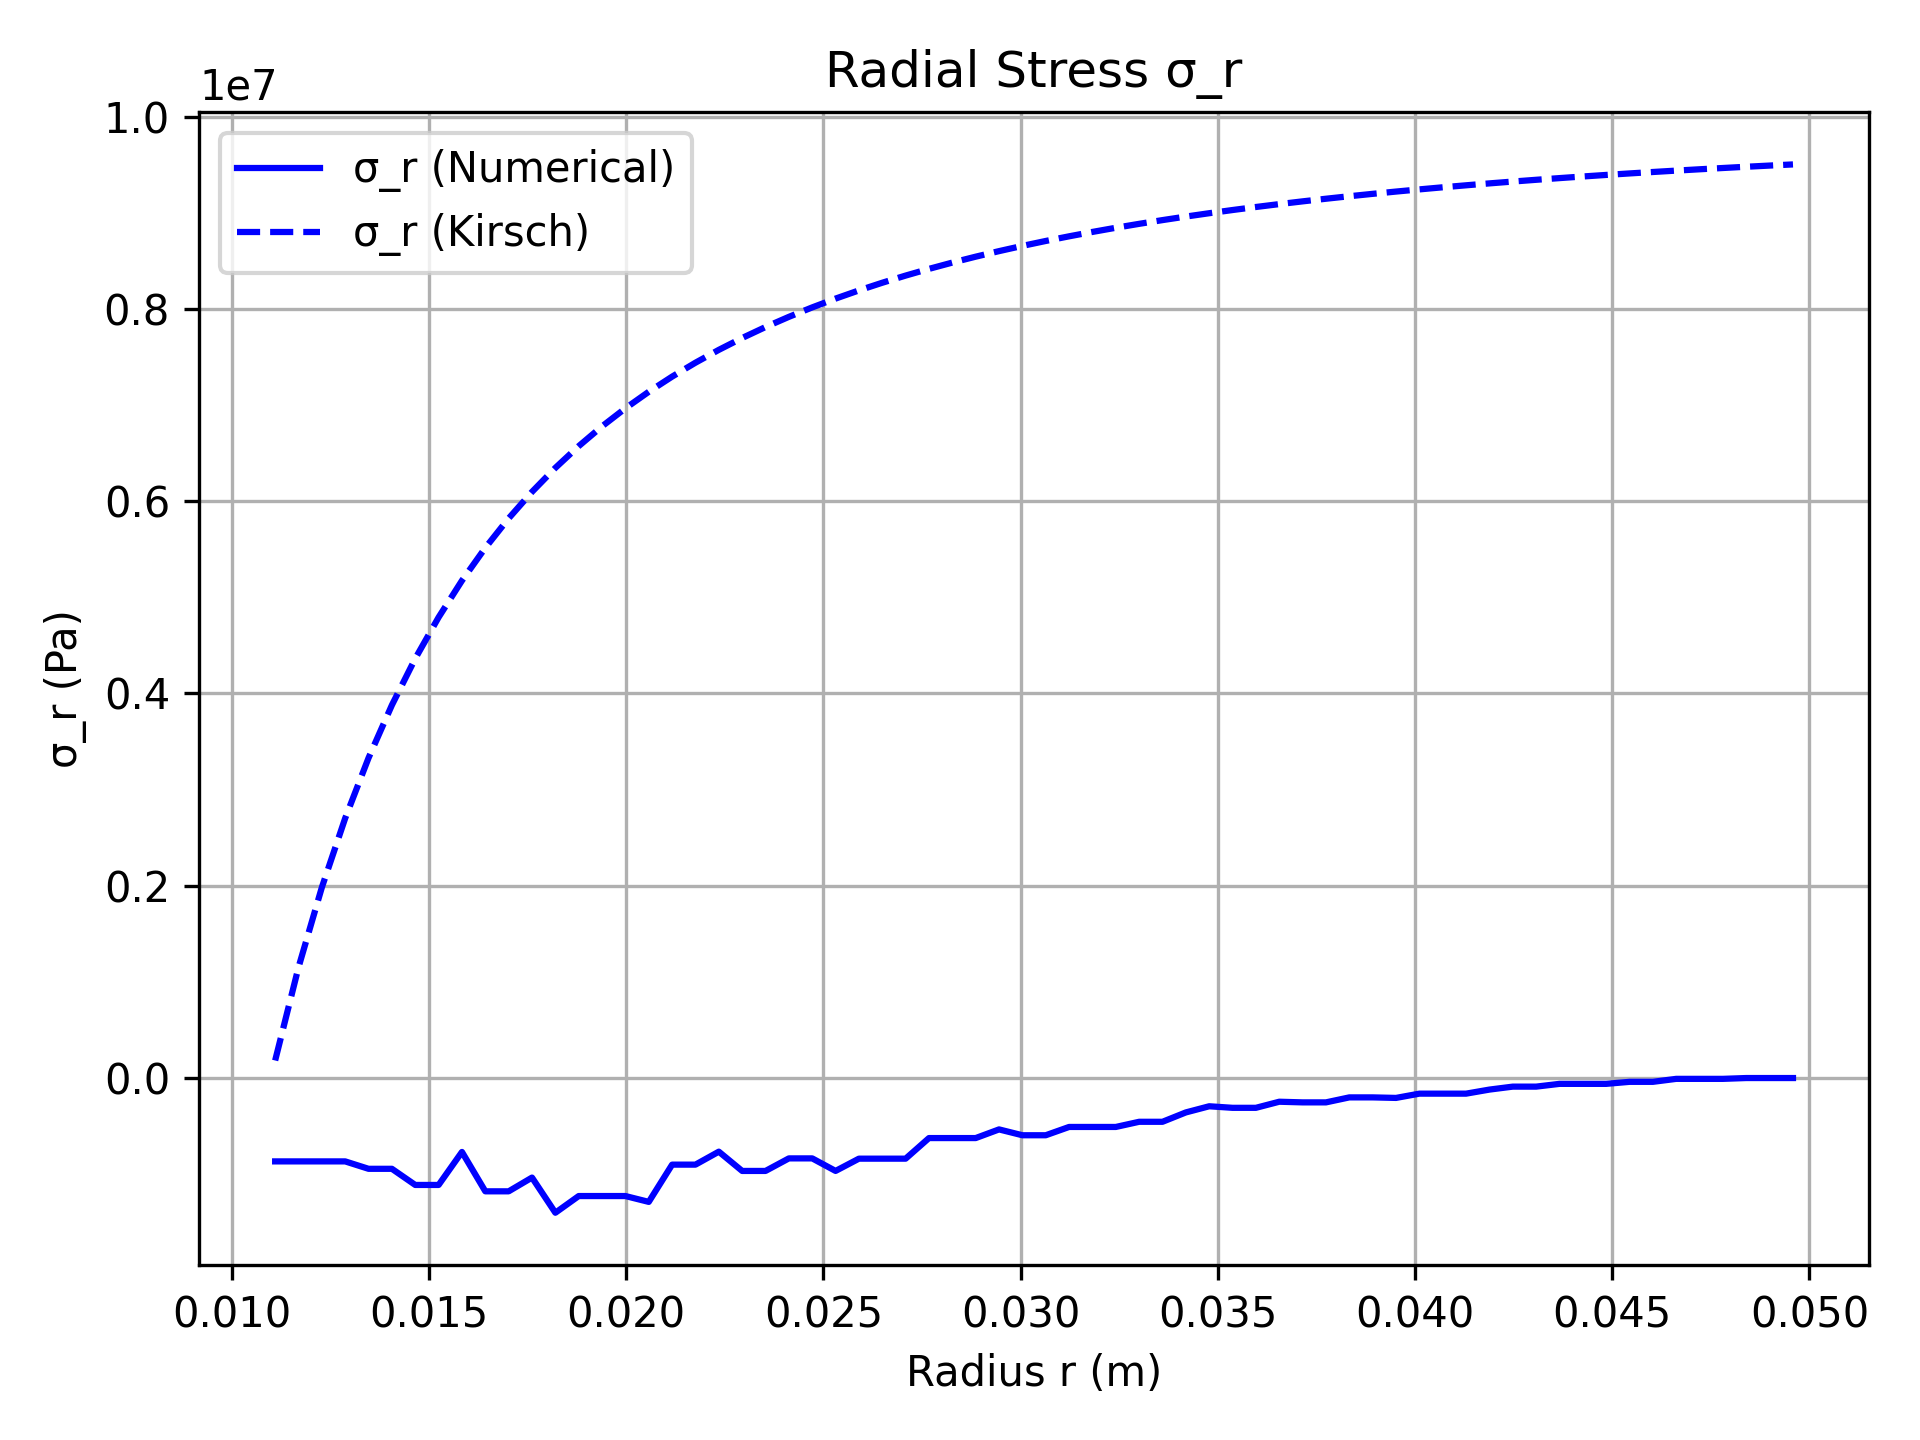
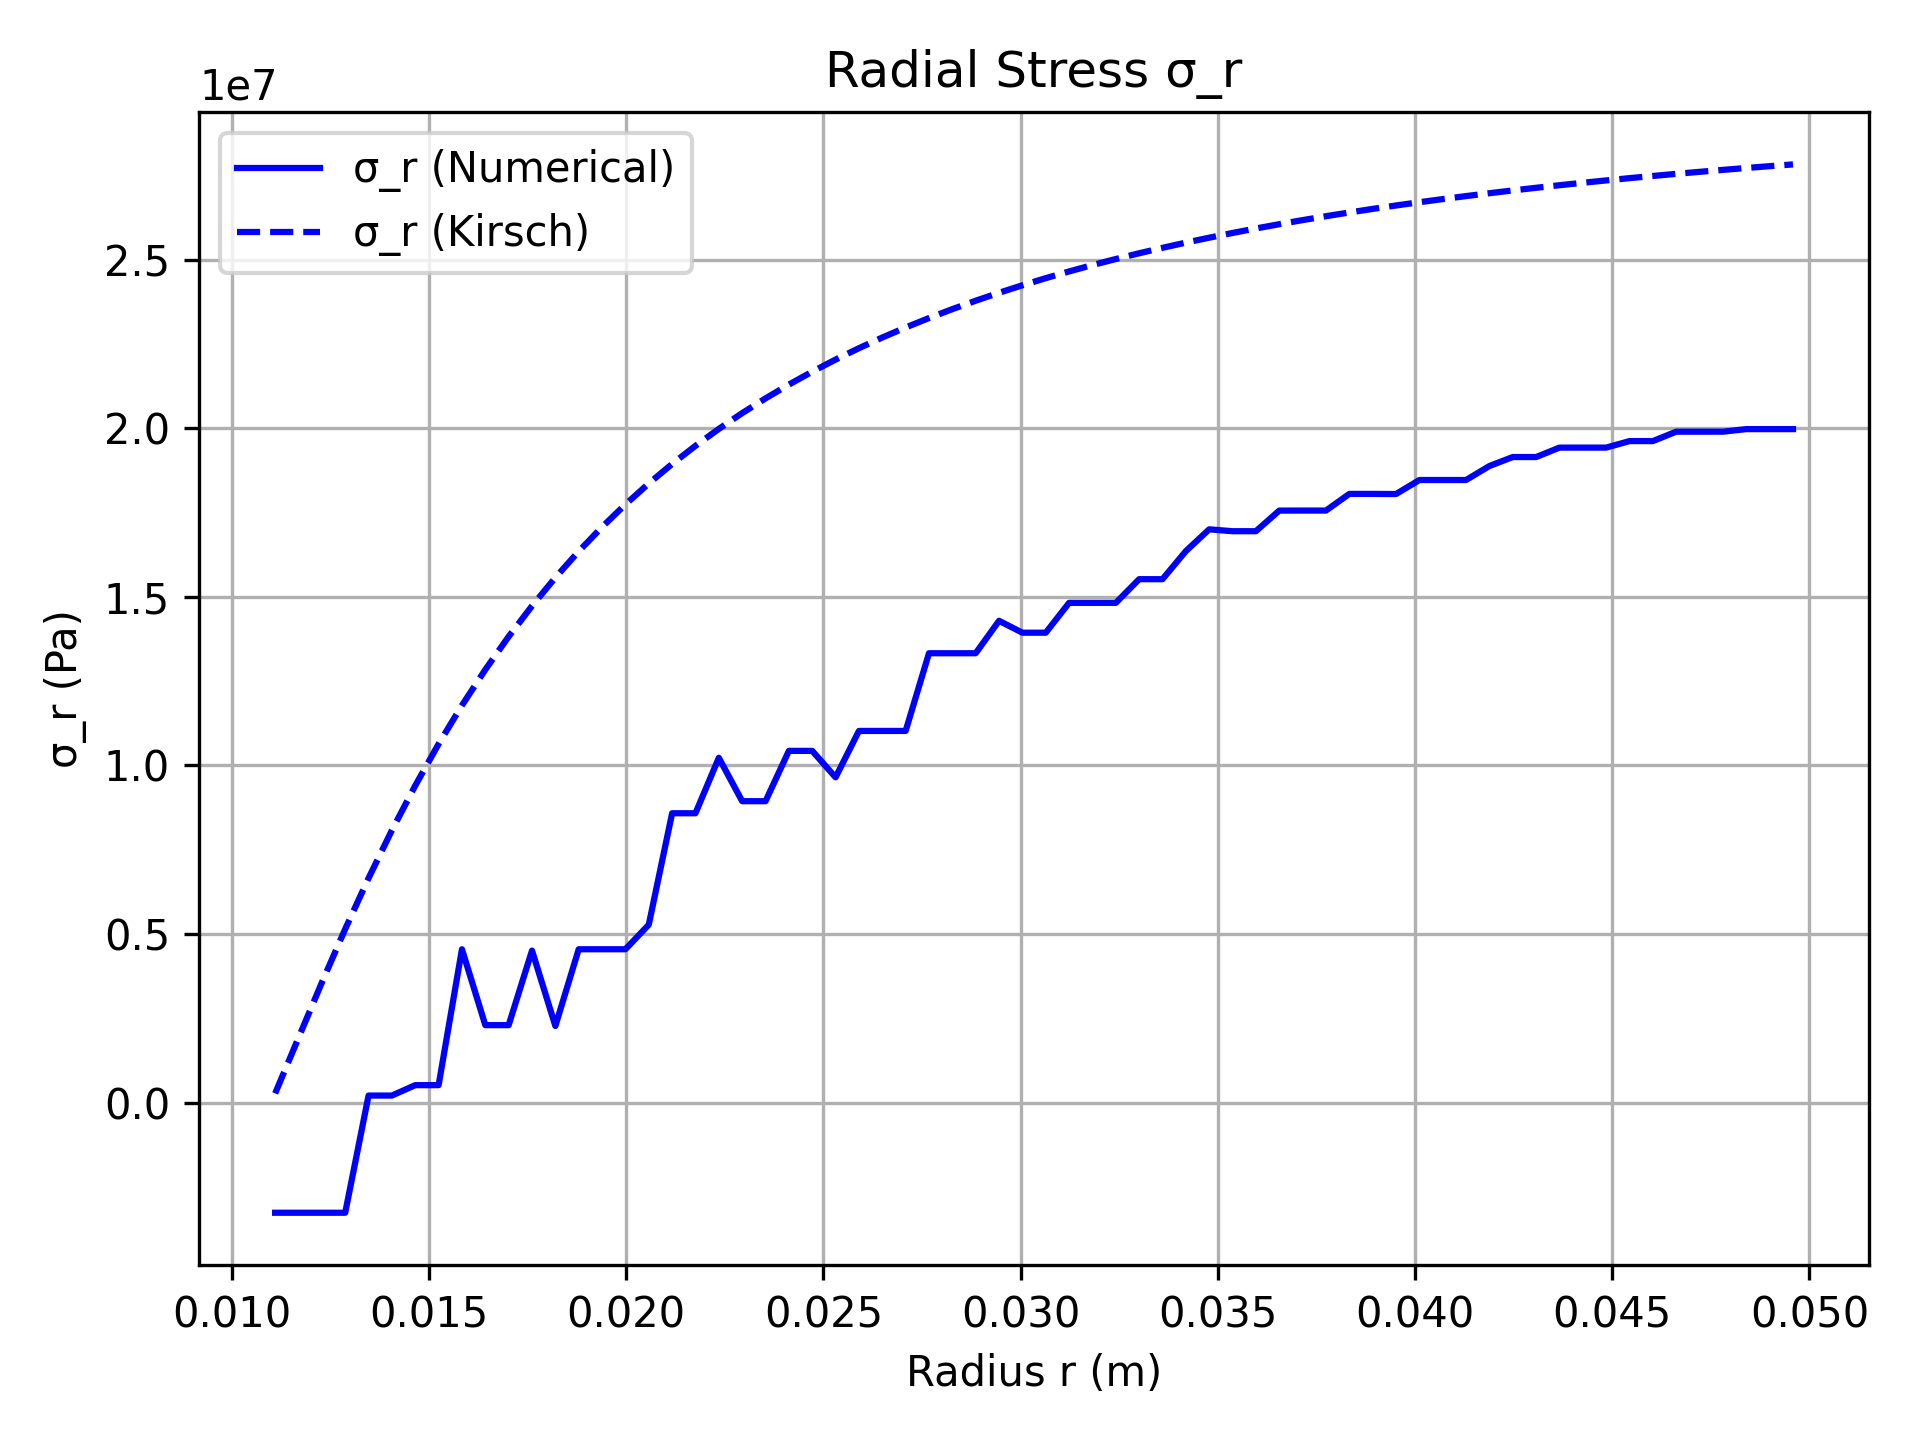
update kirsch validation with a new calculation method.

diff --git a/irp2025_breakouts_webapp/playground/validate_kirsch_stress.py b/irp2025_breakouts_webapp/playground/validate_kirsch_stress.py
@@ -5,14 +5,14 @@ import os
 import pandas as pd
 
 class KirschStressValidator:
-    def __init__(self, mesh_path, sigma_H, E, nu, borehole_radius):
+    def __init__(self, mesh_path, sigma_H, sigma_h, E, nu, a):
         self.mesh_path = mesh_path
         self.sigma_H = sigma_H
+        self.sigma_h = sigma_h
         self.E = E
         self.nu = nu
-        self.a = borehole_radius
+        self.a = a
 
-        # Firedrake setup
         self.mesh = Mesh(mesh_path)
         self.V = VectorFunctionSpace(self.mesh, "CG", 2)
         self.S = TensorFunctionSpace(self.mesh, "DG", 0)
@@ -32,8 +32,11 @@ class KirschStressValidator:
         u = Function(self.V, name="Displacement")
         v = TestFunction(self.V)
 
-        T = as_vector([0.0, self.sigma_H])  # apply on top
-        F = inner(self._sigma(u), self._epsilon(v)) * dx - dot(T, v) * ds(14)
+        # Apply σ_H 向上 (top), σ_h 向右 (right)
+        F = inner(self._sigma(u), self._epsilon(v)) * dx \
+            - dot(as_vector([self.sigma_h, 0]), v) * ds(12) \
+            - dot(as_vector([0, self.sigma_H]), v) * ds(14)
+
         bcs = [
             DirichletBC(self.V.sub(0), Constant(0.0), 11),
             DirichletBC(self.V.sub(1), Constant(0.0), 13),
@@ -43,6 +46,20 @@ class KirschStressValidator:
         self.sigma_tensor = Function(self.S, name="Stress")
         self.sigma_tensor.interpolate(self._sigma(u))
 
+    def _kirsch_sigma_r(self, r, θ=0):
+        a = self.a
+        σ1 = self.sigma_H
+        σ2 = self.sigma_h
+        return (σ1 + σ2)/2 * (1 - (a/r)**2) + \
+               (σ1 - σ2)/2 * (1 - 4*(a/r)**2 + 3*(a/r)**4) * np.cos(2*θ)
+
+    def _kirsch_sigma_theta(self, r, θ=0):
+        a = self.a
+        σ1 = self.sigma_H
+        σ2 = self.sigma_h
+        return (σ1 + σ2)/2 * (1 + (a/r)**2) - \
+               (σ1 - σ2)/2 * (1 + 3*(a/r)**4) * np.cos(2*θ)
+
     def _extract_stress_profile(self):
         coords = self.mesh.coordinates.dat.data_ro
         r_max = np.max(np.sqrt(coords[:, 0]**2 + coords[:, 1]**2))
@@ -50,7 +67,6 @@ class KirschStressValidator:
 
         er = np.array([1.0, 0.0])
         et = np.array([0.0, 1.0])
-
         self.results = []
 
         for r in r_vals_all:
@@ -61,8 +77,8 @@ class KirschStressValidator:
                 continue
             σ_r_num = er @ σ @ er
             σ_θ_num = et @ σ @ et
-            σ_r_kirsch = self.sigma_H * (1 - (self.a / r)**2)
-            σ_θ_kirsch = self.sigma_H * (1 + (self.a / r)**2)
+            σ_r_kirsch = self._kirsch_sigma_r(r, θ=0)
+            σ_θ_kirsch = self._kirsch_sigma_theta(r, θ=0)
             self.results.append({
                 "r": r,
                 "sigma_r_numerical": σ_r_num,
@@ -73,37 +89,27 @@ class KirschStressValidator:
 
     def plot(self, outdir="outputs/kirsch_validation"):
         os.makedirs(outdir, exist_ok=True)
-        r = [d["r"] for d in self.results]
-        σr_num = [d["sigma_r_numerical"] for d in self.results]
-        σr_exact = [d["sigma_r_analytical"] for d in self.results]
-        σθ_num = [d["sigma_theta_numerical"] for d in self.results]
-        σθ_exact = [d["sigma_theta_analytical"] for d in self.results]
+        df = pd.DataFrame(self.results)
 
-        # σ_r
         plt.figure()
-        plt.plot(r, σr_num, "b-", label="σ_r (Numerical)")
-        plt.plot(r, σr_exact, "b--", label="σ_r (Kirsch)")
+        plt.plot(df.r, df.sigma_r_numerical, "b-", label="σ_r (Numerical)")
+        plt.plot(df.r, df.sigma_r_analytical, "b--", label="σ_r (Kirsch)")
         plt.xlabel("Radius r (m)")
         plt.ylabel("σ_r (Pa)")
         plt.title("Radial Stress σ_r")
-        plt.grid(True)
-        plt.legend()
+        plt.legend(); plt.grid(True)
         plt.tight_layout()
         plt.savefig(os.path.join(outdir, "sigma_r_validation.png"), dpi=300)
-        plt.close()
 
-        # σ_θ
         plt.figure()
-        plt.plot(r, σθ_num, "r-", label="σ_θ (Numerical)")
-        plt.plot(r, σθ_exact, "r--", label="σ_θ (Kirsch)")
+        plt.plot(df.r, df.sigma_theta_numerical, "r-", label="σ_θ (Numerical)")
+        plt.plot(df.r, df.sigma_theta_analytical, "r--", label="σ_θ (Kirsch)")
         plt.xlabel("Radius r (m)")
         plt.ylabel("σ_θ (Pa)")
         plt.title("Circumferential Stress σ_θ")
-        plt.grid(True)
-        plt.legend()
+        plt.legend(); plt.grid(True)
         plt.tight_layout()
         plt.savefig(os.path.join(outdir, "sigma_theta_validation.png"), dpi=300)
-        plt.close()
 
     def export(self, path="outputs/kirsch_validation/kirsch_data.csv"):
         os.makedirs(os.path.dirname(path), exist_ok=True)
@@ -112,21 +118,13 @@ class KirschStressValidator:
 
 
 if __name__ == "__main__":
-    # validator = KirschStressValidator(
-    #     mesh_path="meshes/domain.msh",
-    #     sigma_H=10e6,
-    #     E=4.9e9,
-    #     nu=0.44,
-    #     borehole_radius=0.011
-    # )
-
     validator = KirschStressValidator(
-        mesh_path="meshes/domain1.msh",   
-        sigma_H=10e6,
+        mesh_path="meshes/domain1.msh",
+        sigma_H=30e6,     # vertical
+        sigma_h=20e6,     # horizontal
         E=6.66e9,
         nu=0.22,
-        borehole_radius=0.011             
+        a=0.011           # 22 mm borehole
     )
-
     validator.plot()
     validator.export()

diff --git a/irp2025_breakouts_webapp/playground/mode_I_case.py b/irp2025_breakouts_webapp/playground/mode_I_case.py
@@ -128,58 +128,58 @@ class OutwardPenalization(DeformationObjective):
         return fd.derivative(self.value_form(), self.Q.T, test)
 
 
-# if __name__ == "__main__":
+if __name__ == "__main__":
 
-#     domainpath = "meshes/domain.msh"
+    domainpath = "meshes/domain.msh"
 
-#     params_dict = {'Step': {'Type': 'Trust Region'},
-#                    'General': {'Secant': {'Type': 'Limited-Memory BFGS',
-#                                           'Maximum Storage': 25}},
-#                    'Status Test': {'Gradient Tolerance': 1e-2,
-#                                    'Step Tolerance': 1e-8,
-#                                    'Iteration Limit': 40}}
+    params_dict = {'Step': {'Type': 'Trust Region'},
+                   'General': {'Secant': {'Type': 'Limited-Memory BFGS',
+                                          'Maximum Storage': 25}},
+                   'Status Test': {'Gradient Tolerance': 1e-2,
+                                   'Step Tolerance': 1e-8,
+                                   'Iteration Limit': 40}}
 
-#     model_parameters = {
-#         "youngs_modulus": 1e9,
-#         "poisson_ratio": 0.3,
-#         "tensile_strength": 1.5e6,
-#         "internal_friction_angle": 20,
-#         "internal_cohesion": 40.55e6,
-#         "insitu_stress_x": 1e6,
-#         "insitu_stress_y": 7.7e6}
+    model_parameters = {
+        "youngs_modulus": 1e9,
+        "poisson_ratio": 0.3,
+        "tensile_strength": 1.5e6,
+        "internal_friction_angle": 20,
+        "internal_cohesion": 40.55e6,
+        "insitu_stress_x": 1e6,
+        "insitu_stress_y": 7.7e6}
 
-#     # model_parameters = {
-#     #     "youngs_modulus": 4.9e9,              # 4.9 GPa（confining = 2 MPa 对应的 E）
-#     #     "poisson_ratio": 0.44,                # ν = 0.44（同一行）
-#     #     "tensile_strength": 0.9e6,            # 1.0 MPa，估计值，弱砂岩典型
-#     #     "internal_friction_angle": 38.9,      # φ，论文给出
-#     #     "internal_cohesion": 4.54e6,          # c，论文给出
-#     #     "insitu_stress_x": 27e6,               # 初始设为 0，后续加载
-#     #     "insitu_stress_y": 27e6
-#     # }
+    # model_parameters = {
+    #     "youngs_modulus": 4.9e9,              # 4.9 GPa（confining = 2 MPa 对应的 E）
+    #     "poisson_ratio": 0.44,                # ν = 0.44（同一行）
+    #     "tensile_strength": 0.9e6,            # 1.0 MPa，估计值，弱砂岩典型
+    #     "internal_friction_angle": 38.9,      # φ，论文给出
+    #     "internal_cohesion": 4.54e6,          # c，论文给出
+    #     "insitu_stress_x": 27e6,               # 初始设为 0，后续加载
+    #     "insitu_stress_y": 27e6
+    # }
 
-#     # setup problem
-#     mesh = Mesh(domainpath)
-#     mesh_initial = Mesh(domainpath)
-#     Q = FeControlSpace(mesh)
+    # setup problem
+    mesh = Mesh(domainpath)
+    mesh_initial = Mesh(domainpath)
+    Q = FeControlSpace(mesh)
 
-#     File = VTKFile("tensile_limit.pvd")
+    File = VTKFile("tensile_limit.pvd")
     
-#     for rampf in np.linspace(0.1, 1, num=30, endpoint=True):
-#         mesh = Mesh(Q.T)
-#          # 1. 重建 mesh
-#         Q = FeControlSpace(mesh)
-#         # 2. 定义内积和控制向量
-#         IP = H1InnerProduct(Q, fixed_bids=[11, 12, 13, 14])
-#         q = ControlVector(Q, IP)
-#         # 3. 定义目标函数
-#         J = StrengthConstraint(Q, model_parameters=model_parameters, ramping_factor=rampf) + OutwardPenalization(Q)
-#         # assemble and solve ROL optimization problem
-#         params = ROL.ParameterList(params_dict, "Parameters")
-#         # 4. 定义 ROL 优化问题 启动优化器求解
-#         problem = ROL.OptimizationProblem(J, q) 
-#         ROLsolver = ROL.OptimizationSolver(problem, params)
-#         ROLsolver.solve()
-#         File.write(J.a.tensile_limit, time=rampf)
-#         plot_mesh(mesh, mesh_initial, rampf)
-#         plot_scalar_field(J.a.tensile_limit, rampf)
+    for rampf in np.linspace(0.1, 1, num=30, endpoint=True):
+        mesh = Mesh(Q.T)
+         # 1. 重建 mesh
+        Q = FeControlSpace(mesh)
+        # 2. 定义内积和控制向量
+        IP = H1InnerProduct(Q, fixed_bids=[11, 12, 13, 14])
+        q = ControlVector(Q, IP)
+        # 3. 定义目标函数
+        J = StrengthConstraint(Q, model_parameters=model_parameters, ramping_factor=rampf) + OutwardPenalization(Q)
+        # assemble and solve ROL optimization problem
+        params = ROL.ParameterList(params_dict, "Parameters")
+        # 4. 定义 ROL 优化问题 启动优化器求解
+        problem = ROL.OptimizationProblem(J, q) 
+        ROLsolver = ROL.OptimizationSolver(problem, params)
+        ROLsolver.solve()
+        File.write(J.a.tensile_limit, time=rampf)
+        plot_mesh(mesh, mesh_initial, rampf)
+        plot_scalar_field(J.a.tensile_limit, rampf)
